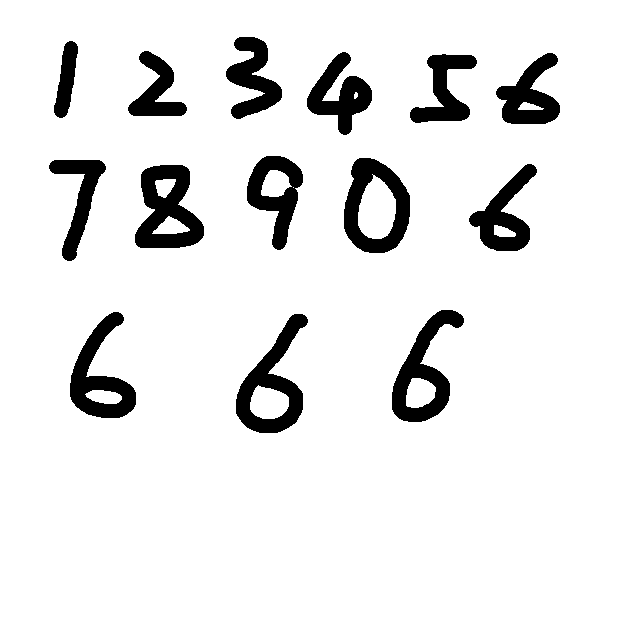
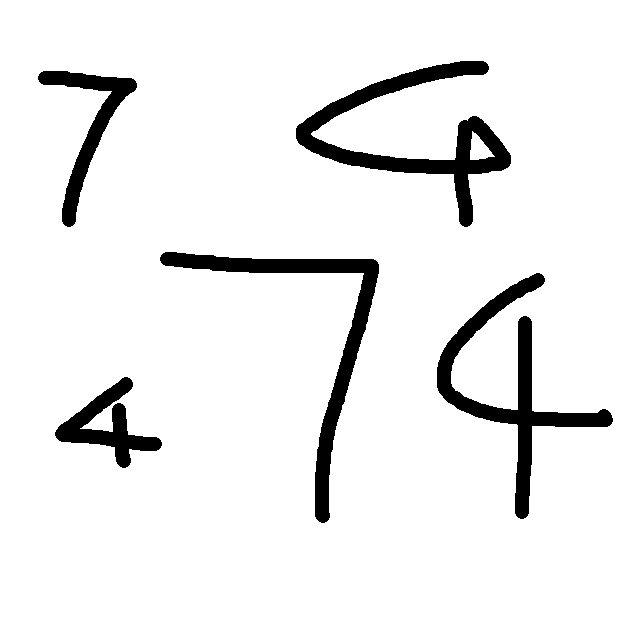
完成

diff --git a/MODEL/model.py b/MODEL/model.py
@@ -9,7 +9,10 @@ import pandas as pd
 from sklearn.metrics import accuracy_score
 from abc import ABC, abstractmethod
 from MODEL.capslayer import CapsLayer
-
+from python.constructs.optimizer import Adam
+from python.input.MNIST_input_pipeline import MNIST
+from python.models.SmallImageBranchingMerging import SmallImageBranchingMerging
+from python.constructs.learning_rate import ManualExponentialDecay
 
 class SaveEpochMetricsCallback(tf.keras.callbacks.Callback):
     def __init__(self, test_loss_log_path, test_acc_log_path):
@@ -301,4 +304,46 @@ class CapsuleModel(BaseModel):
         return scale * x
 
 
+class BMCNNwHFCs:
+    label = "BMCNNwHFCs"
+    def __init__(self, ckpt_path='./MODEL/logs/20250428134519/best_top1-77'):
+        # Step 1: 准备 input pipeline
+        self.in_pipe = MNIST(
+            data_base_dir="D:/app/pycharm/python project/DigitRecognition/data",
+            augment_training_data=True,
+            augmentation_type=1
+        )
 
+        # Step 2: 初始化模型
+        self.model = SmallImageBranchingMerging(
+            count_classes=self.in_pipe.get_class_count(),
+            image_size=self.in_pipe.get_image_size(),
+            image_channels=self.in_pipe.get_image_channels(),
+            merge_strategy=2,
+            use_hvcs=True,
+            hvc_type=2,
+            initial_filters=32,
+            filter_growth=16,
+            hvc_dims=[96, 144, 192],
+            total_convolutions=11,
+            branches_after=[4, 7, 10],
+            reconstruct_from_hvcs=False
+        )
+
+        # Step 3: 学习率和优化器
+        lr = ManualExponentialDecay(initial_learning_rate=0.001, decay_rate=0.98, minimum_lr=1e-7)
+        self.optimizer = Adam(lr)
+
+        # Step 4: checkpoint 恢复器
+        self.ckpt = tf.train.Checkpoint(
+            vars=self.model.get_all_savable_variables(),
+            optimizer=self.optimizer
+        )
+
+        self.ckpt.restore(ckpt_path).expect_partial()
+        print("✅ Successfully restored model variables and optimizer from:", ckpt_path)
+
+    def predict_digit(self, img):
+        test_image = img.reshape(-1, 28, 28, 1)
+        logits, _ = self.model.forward(features=img, labels=None, is_training=False)
+        return logits

diff --git a/GUI.py b/GUI.py
@@ -13,23 +13,26 @@ def main():
 
     # Normalize and reshape the images to [num_samples, 28, 28, 1]
     x_train, x_test = imageNormalization(x_train, x_test, mean=0.1037, std=0.3081)
-    # Resize 到 32×32 for LeNet-5
+    # ===================== Train / Load Model =====================
+    # LeNet-5
+    # Resize to 32×32 for LeNet-5
     # x_train = tf.image.resize(x_train, [32, 32]).numpy()
     # x_test = tf.image.resize(x_test, [32, 32]).numpy()
+    # LeNet-5
+
+    # CapsNet
     # Convert the labels to one-hot encoding　only　caps　need
     # y_train = tf.keras.utils.to_categorical(y_train, 10)  # 10 classes
     # y_test = tf.keras.utils.to_categorical(y_test, 10)    # 10 classes
+    # print("x_train shape:", x_train.shape)  # (60000, 28, 28, 1)
+    # print("x_test shape:", x_test.shape)    # (10000, 28, 28, 1)
+    # print("y_train shape:", y_train.shape)  # (60000, 10)
+    # print("y_test shape:", y_test.shape)    # (10000, 10)
+    # CapsNet
 
-    print("x_train shape:", x_train.shape)  # (60000, 28, 28, 1)
-    print("x_test shape:", x_test.shape)    # (10000, 28, 28, 1)
-    print("y_train shape:", y_train.shape)  # (60000, 10)
-    print("y_test shape:", y_test.shape)    # (10000, 10)
-
-    # ===================== Train / Load Model =====================
+    '''cnn_model'''
     # model_path = "MODEL/cnn_model.h5"
-
-    # Initialize the CNN model with input shape and model path
-    # model = CNNModel(x_train.shape[1:], model_path=model_path)
+    # Initialize the NDOCNN model with input shape and model path
     model = CNNModel(x_train.shape[1:])
     model.summary()
 
@@ -39,7 +42,10 @@ def main():
         model.train(x_train, y_train, epochs=100, x_test=x_test, y_test=y_test)
         # model.save()  # Save the trained model
 
-    # NDOCNNacc = model.evaluate(x_test,y_test,save_path=f"result/{model.label}_acc.csv")
+
+    # BMCNNwHFCs
+    # ckpt_path = './MODEL/logs/20250428134519/best_top1-77'
+    # model = BMCNNwHFCs(ckpt_path)
 
     # ===================== Pygame Event Loop =====================
     draw_on = False  # Initialize draw_on variable before the loop

diff --git a/README.md b/README.md
@@ -1,0 +1,127 @@
+# README
+
+## Workflow
+
+This is a handwritten digit recognition project with a GUI, divided into two modules:
+
+* model training (I've built 3 different Stat-of-the-art model), **LeNet-5, CapsNet, BMCNNwHFCs**, and another simple CNN model **NDOCNN** with two dropout layers
+* GUI module
+
+this is the workflow and what I did.
+
+![image-20250502102820851](C:\Users\29192\AppData\Roaming\Typora\typora-user-images\image-20250502102820851.png)
+
+the key structure of the work:
+
+```txt
+DigitRecognition
+├── ASSETS
+├── C++
+├── data
+├── MODEL
+│   ├── logs
+│   ├── capslayer.py
+│   └── model.py
+├── python
+│   ├── etc
+│   ├── train.py
+│   └── models
+│       └── SmallImageBranchingMerging.py
+├── result
+├── draw.py
+├── GUI.py
+├── train.py
+└── utils.py
+```
+
+## Model Training
+
+First, you need to clone this project, then choose the model you want to train. It is recommended to use the model training method defined in `GUI.py`. You just need to uncomment the corresponding model.
+
+When the model is instantiated, it will load the `.h5` file from the` MODEL/` directory (pre-trained parameters). If the file is not found, it will retrain the model.
+
+### NDOCNN
+
+```python
+# model_path = "MODEL/cnn_model.h5"
+# Initialize the NDOCNN model with input shape and model path
+model = LeNet(x_train.shape[1:])
+    model.summary()
+
+# If model is not loaded, compile and train it
+if not model.is_load:
+    # model.train(x_train,y_train,epochs=20,batch_size=32)
+    model.train(x_train, y_train, epochs=100, x_test=x_test, y_test=y_test)
+    # model.save()  # Save the trained model
+
+```
+
+### LeNet-5
+
+You need to first transform the input to a size of 32x32 If you are using LeNet-5.
+
+```python
+# LeNet-5
+# Resize to 32×32 for LeNet-5
+x_train = tf.image.resize(x_train, [32, 32]).numpy()
+x_test = tf.image.resize(x_test, [32, 32]).numpy()
+    
+model = LeNet(x_train.shape[1:])
+    model.summary()
+
+# If model is not loaded, compile and train it
+if not model.is_load:
+    # model.train(x_train,y_train,epochs=20,batch_size=32)
+    model.train(x_train, y_train, epochs=100, x_test=x_test, y_test=y_test)
+    # model.save()  # Save the trained model
+```
+
+### CapsNet
+
+You need to convert the training data to one-hot encoding to adapt to CapsNet's Margin loss.
+
+```python
+# CapsNet
+# Convert the labels to one-hot encoding　only　caps　need
+y_train = tf.keras.utils.to_categorical(y_train, 10)  # 10 classes
+y_test = tf.keras.utils.to_categorical(y_test, 10)    # 10 classes
+
+model = CapsNet(x_train.shape[1:])
+    model.summary()
+
+# If model is not loaded, compile and train it
+if not model.is_load:
+    # model.train(x_train,y_train,epochs=20,batch_size=32)
+    model.train(x_train, y_train, epochs=100, x_test=x_test, y_test=y_test)
+    # model.save()  # Save the trained model
+```
+
+### BMCNNwHFCs
+
+For BMCNNwHGCs, you can directly use the pre-trained model parameters, or refer to the original author's documentation. https://github.com/AdamByerly/BMCNNwHFCs
+
+I've trained the model for 100 epoch and the `ckpt_path` stored the model parameter information.
+
+```python
+ckpt_path = './MODEL/logs/20250428134519/best_top1-77'
+model = BMCNNwHFCs(ckpt_path)
+```
+
+## Evaluation
+
+These figures show the loss convergence and accuracy values of four models.
+
+![epoch-loss](D:\qi\paper\assignments\大二课设\result\epoch-loss.png)
+
+![acc](D:\qi\paper\assignments\大二课设\result\acc.png)
+
+## Bibliography
+
+* LeCun, Y., Bottou, L., Bengio, Y., & Haffner, P. (1998). Gradient-based learning applied to document recognition. *Proceedings of the IEEE*, *86*(11), 2278-2324.
+* Sabour, S., Frosst, N., & Hinton, G. E. (2017). Dynamic routing between capsules. *Advances in neural information processing systems*, *30*.
+* Byerly, A., Kalganova, T., & Dear, I. (2021). No routing needed between capsules. *Neurocomputing*, *463*, 545-553.
+* https://github.com/surya-veer/RealTime-DigitRecognition/tree/master
+* https://github.com/AdamByerly/BMCNNwHFCs
+* https://youtu.be/u3FLVbNn9Os?si=PEtiT_YIIOkVcT4t
+
+Thank you for your contribution!
